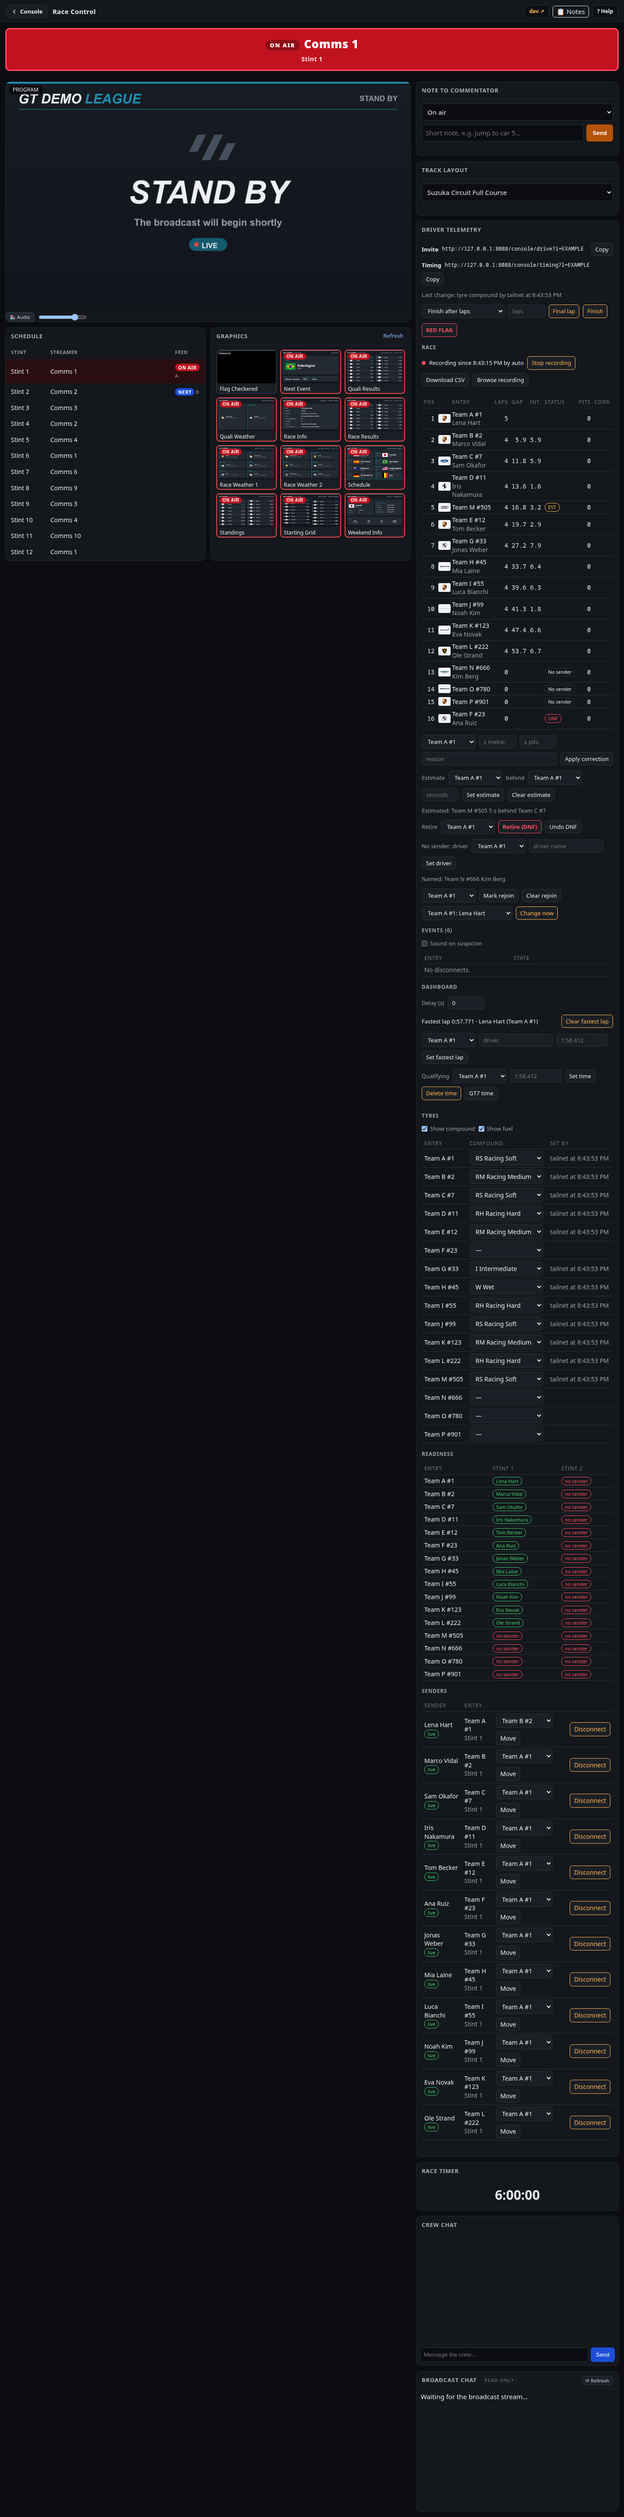
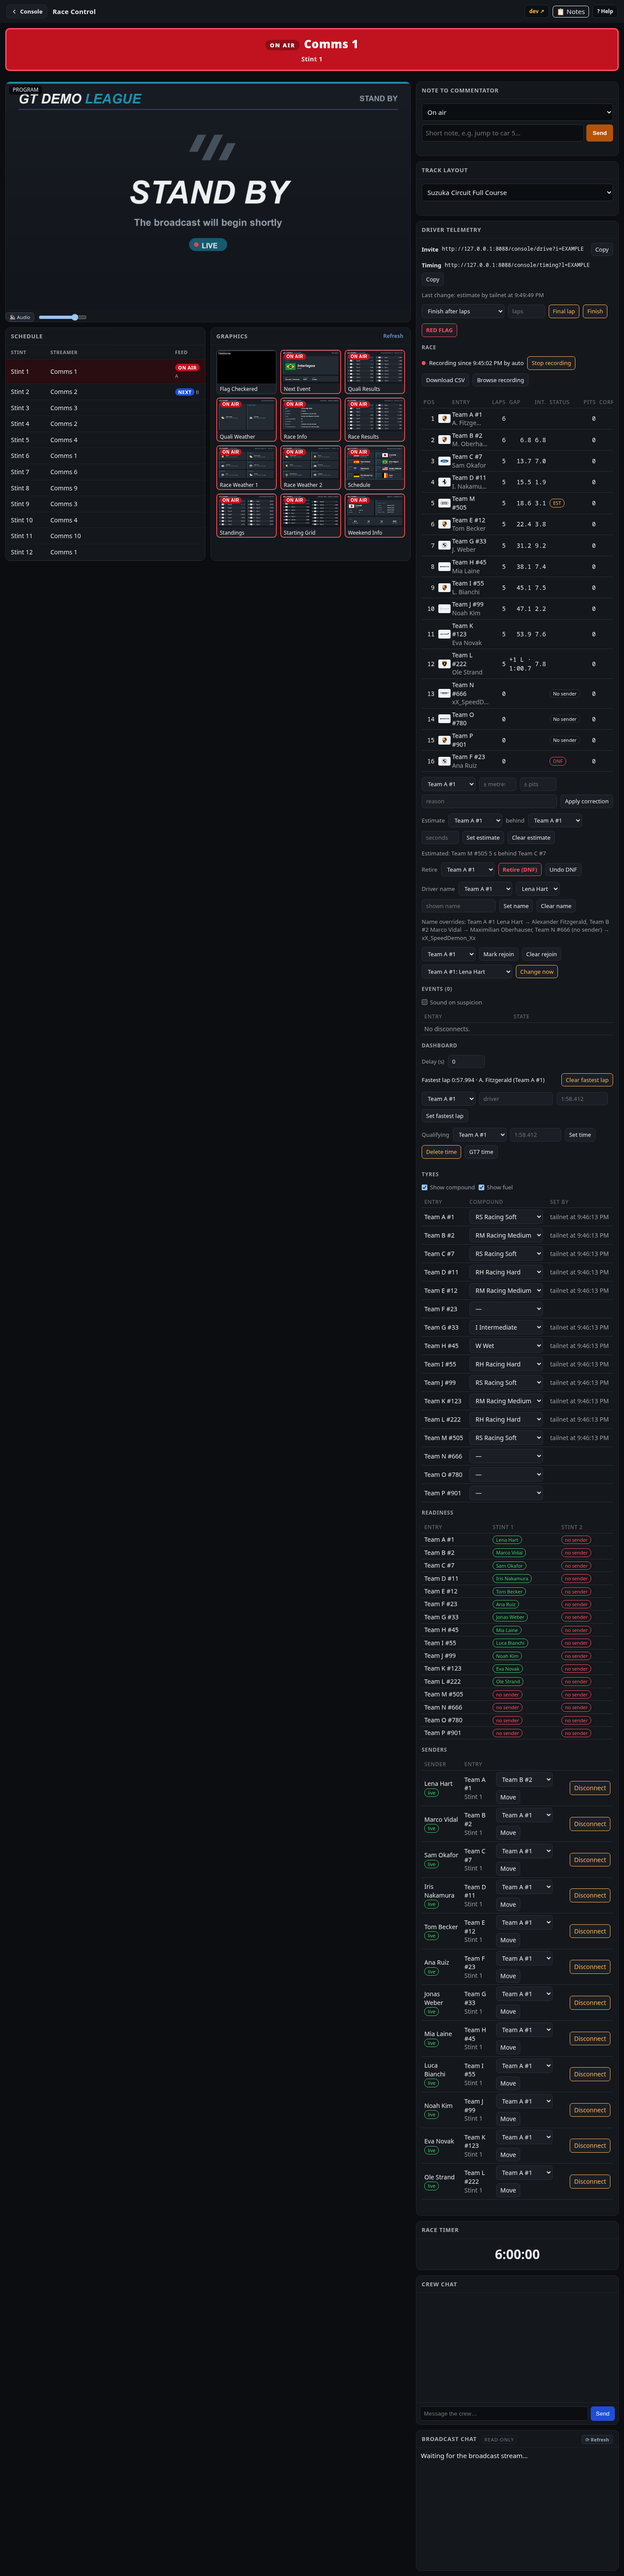
fix(timing): name budgets that fit the rendered columns; refresh the driver desk screenshots
Rendered with "Alexander Fitzgerald" and the 16 character ID
"xX_SpeedDemon_Xx": the Race Control desk's driver line takes 10
characters (11 still pushed the Corr. column out of the 468 px card), the
public page 16 (20 wrapped on a phone), the tower surname 7. The Race
Control and Director Panel screenshots show the Driver name control and
its override list.

diff --git a/src/obs/drivers.html b/src/obs/drivers.html
@@ -138,7 +138,7 @@
     const h = Math.floor(sec / 3600), m = Math.floor(sec % 3600 / 60), s = Math.floor(sec % 60);
     return (h ? h + ":" + String(m).padStart(2, "0") : m) + ":" + String(s).padStart(2, "0");
   }
-  const SURNAME_MAX = 8;   // what the name column holds at 20px bold
+  const SURNAME_MAX = 7;   // what the name column holds at 20px bold
   // The surname only (a one-word ID whole), cut with an ellipsis when it does not fit.
   function surname(name) {
     const parts = String(name || "").trim().split(/\s+/);

diff --git a/src/console/driver-desk.js b/src/console/driver-desk.js
@@ -80,7 +80,7 @@
     }
     return s.slice(0, max - 1) + "\u2026";
   }
-  var NAME_MAX = 14;       // the race table's driver line
+  var NAME_MAX = 10;       // the race table's driver line
   var NAME_LIST_MAX = 16;  // events, readiness, senders and the fastest lap
   var STATUS = {racing: ["", ""], box: ["Box", "amb"], no_data: ["No data", "bad"], dc: ["DC", "bad"],
                 est: ["EST", "amb"], waiting: ["Waiting", ""], red_flag: ["Red flag", "bad"],

diff --git a/src/console/timing.html b/src/console/timing.html
@@ -265,7 +265,7 @@
     }
     return s.slice(0, max - 1) + "\u2026";
   }
-  const NAME_MAX = 20;
+  const NAME_MAX = 16;
   function driverCell(e) {
     const d = el("div", "", fitName(e.driver, NAME_MAX));
     d.appendChild(el("small", "", e.team || e.entry || ""));

diff --git a/tests/test_driver_tower.py b/tests/test_driver_tower.py
@@ -434,7 +434,7 @@ def t_the_tower_only_cuts_the_surname():
                             surname("xX_SpeedDemon_Xx")];""")
     if got is None:
         return
-    assert got == ["HART", "FITZGER\u2026", "XX_SPEE\u2026"], got
+    assert got == ["HART", "FITZGE\u2026", "XX_SPE\u2026"], got
 
 
 def t_the_pages_show_names_through_the_rule():
